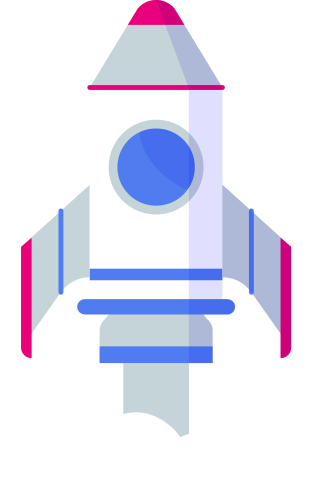
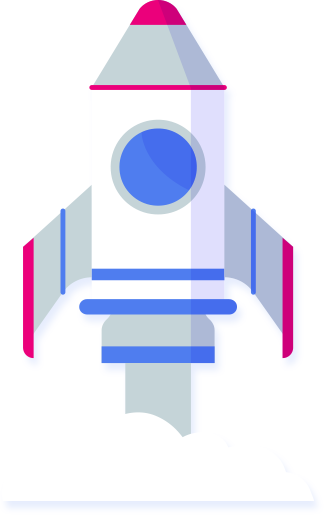
footer positions done

Changed region(s): [[0.0577, 0.0, 0.9519, 0.8683]]

diff --git a/src/html/footer.html b/src/html/footer.html
@@ -6,38 +6,23 @@
 
     <div class="contacts-media__wrapper">
       <div class="contacts">
-        <a
-          href="https://goo.gl/maps/HrK5jJEyG3p3RCrFA"
-          class="contacts__link contacts__link-adress"
-          >01133 Україна, Київ
-          <span class="contacts__link-adress-br"
-            >5 хвилин від м. Печерська </span
-          >бул. Лесі Українки 26
-          <span class="contacts__link-adress-br">4-й поверх</span>
+        <a href="https://goo.gl/maps/HrK5jJEyG3p3RCrFA" class="contacts__link contacts__link_adress">01133 Україна, Київ
+          <span class="contacts__link_adress-br">5 хвилин від м. Печерська </span>бул. Лесі Українки 26
+          <span class="contacts__link_adress-br">4-й поверх</span>
         </a>
 
         <ul class="contacts__list">
           <li class="contacts__item">
-            <a
-              href="mailto:contact@goiteens.ua"
-              class="contacts__link contacts__link-email"
-              >contact@goiteens.ua</a
-            >
+            <a href="mailto:contact@goiteens.ua" class="contacts__link contacts__link_email">contact@goiteens.ua</a>
           </li>
           <li class="contacts__item">
-            <a href="tel:380933432127" class="contacts__link contacts__link-tel"
-              >+38 093 343 21 27</a
-            >
+            <a href="tel:380933432127" class="contacts__link contacts__link_tel">+38 093 343 21 27</a>
           </li>
           <li class="contacts__item">
-            <a href="tel:380673269592" class="contacts__link contacts__link-tel"
-              >+38 067 326 95 92</a
-            >
+            <a href="tel:380673269592" class="contacts__link contacts__link_tel">+38 067 326 95 92</a>
           </li>
           <li class="contacts__item">
-            <a href="tel:380503661777" class="contacts__link contacts__link-tel"
-              >+38 050 366 17 77</a
-            >
+            <a href="tel:380503661777" class="contacts__link contacts__link_tel">+38 050 366 17 77</a>
           </li>
         </ul>
       </div>
@@ -46,25 +31,25 @@
         <button class="btn btn_gradient">Залишити заявку</button>
 
         <ul class="socials">
-          <li class="socials__item socials__link-telegram">
+          <li class="socials__item socials__link_telegram">
             <a href="#" class="socials__link">
-              <svg class="socials__icon socials__icon-telegram">
+              <svg class="socials__icon socials__icon_telegram">
                 <use href="./images/footer/sprite.svg#telegram"></use>
               </svg>
               <span class="visually-hidden">telegram</span>
             </a>
           </li>
           <li class="socials__item">
-            <a href="#" class="socials__link socials__link-facebook">
-              <svg class="socials__icon socials__icon-facebook">
+            <a href="#" class="socials__link socials__link_facebook">
+              <svg class="socials__icon socials__icon_facebook">
                 <use href="./images/footer/sprite.svg#facebook"></use>
               </svg>
               <span class="visually-hidden">facebook</span>
             </a>
           </li>
           <li class="socials__item">
-            <a href="#" class="socials__link socials__link-youtube">
-              <svg class="socials__icon socials__icon-youtube">
+            <a href="#" class="socials__link socials__link_youtube">
+              <svg class="socials__icon socials__icon_youtube">
                 <use href="./images/footer/sprite.svg#youtube"></use>
               </svg>
               <span class="visually-hidden">youtube</span>
@@ -73,12 +58,6 @@
         </ul>
       </div>
     </div>
-
-    <!-- <img class="footer__pic_md" src="./images/footer/rocket-md.png" alt="rocket pic"> -->
-    <!-- <picture class="footer__pic">
-      <source srcset="./images/footer/rocket-lg.png" media="min-width: 1420px">
-      <img src="./images/footer/rocket-md.png" alt="rocket pic">
-    </picture> -->
 
     <div class="terms-socials">
       <ul class="terms">
@@ -94,25 +73,25 @@
       </ul>
 
       <ul class="socials_desktop">
-        <li class="socials__item socials__link-telegram">
+        <li class="socials__item socials__link_telegram">
           <a href="#" class="socials__link">
-            <svg class="socials__icon socials__icon-telegram">
+            <svg class="socials__icon socials__icon_telegram">
               <use href="./images/footer/sprite.svg#telegram"></use>
             </svg>
             <span class="visually-hidden">telegram</span>
           </a>
         </li>
         <li class="socials__item">
-          <a href="#" class="socials__link socials__link-facebook">
-            <svg class="socials__icon socials__icon-facebook">
+          <a href="#" class="socials__link socials__link_facebook">
+            <svg class="socials__icon socials__icon_facebook">
               <use href="./images/footer/sprite.svg#facebook"></use>
             </svg>
             <span class="visually-hidden">facebook</span>
           </a>
         </li>
         <li class="socials__item">
-          <a href="#" class="socials__link socials__link-youtube">
-            <svg class="socials__icon socials__icon-youtube">
+          <a href="#" class="socials__link socials__link_youtube">
+            <svg class="socials__icon socials__icon_youtube">
               <use href="./images/footer/sprite.svg#youtube"></use>
             </svg>
             <span class="visually-hidden">youtube</span>

diff --git a/src/sass/sections/footer.scss b/src/sass/sections/footer.scss
@@ -1,22 +1,49 @@
 .footer {
   background-image: url(../images/footer/footer-bg.jpg);
-  background-size: 100% 675px;
+  background-size: 100% 686px;
   background-repeat: no-repeat;
   background-position: bottom;
+  position: relative;
+  padding-top: 70px;
+  padding-bottom: 40px;
 
-  @media (min-width: 768px) {
+  @media (min-width: 768px) and (max-width: 1439px) {
     background-image: url(../images/footer/footer-bg-md.jpg);
-    background-size: 100% 420px;
+    background-size: 100% 434px;
+    padding-top: 78px;
+    padding-bottom: 30px;
+
+    &::before {
+      content: '';
+      background-image: url(../images/footer/rocket-md.png);
+      width: 129px;
+      height: 202px;
+      position: absolute;
+      bottom: 90px;
+      right: 38px;
+    }
   }
 
   @media (min-width: 1440px) {
     background-image: url(../images/footer/footer-bg-lg.jpg);
-    background-size: 100% 494px;
+    background-size: 100% 504px;
+    padding-top: 166px;
+    padding-bottom: 68px;
+
+    &::before {
+      content: '';
+      background-image: url(../images/footer/rocket-lg.png);
+      width: 324px;
+      height: 515px;
+      position: absolute;
+      bottom: 15px;
+      right: 98px;
+    }
   }
 
   &__pic {
     &_md {
-      @include size(118px, 188px);
+      @include size(129px, 202px);
 
       @media (max-width: 767px) {
         display: none;
@@ -26,6 +53,14 @@
         position: absolute;
         bottom: 97px;
         right: 55px;
+      }
+    }
+
+    &_lg {
+      @media (min-width: 1440px) {
+        // position: absolute;
+        // bottom: 97px;
+        // right: 55px;
       }
     }
   }
@@ -51,7 +86,11 @@
 }
 
 .contacts-media__wrapper {
-  // display: flex;
+  @media (min-width: 1440px) {
+    display: flex;
+    justify-content: flex-start;
+    margin-bottom: 76px;
+  }
 }
 
 .contacts {
@@ -71,6 +110,7 @@
   }
 
   @media (min-width: 1440px) {
+    margin-bottom: 0;
     margin-right: 122px;
   }
 
@@ -81,14 +121,22 @@
 
     @media (min-width: 768px) {
       text-align: left;
-      margin-right: 70px;
     }
 
-    &-adress {
+    @media (min-width: 1440px) {
+      margin: 0;
+    }
+
+    &_adress {
       margin-bottom: 30px;
 
       @media (min-width: 768px) {
         margin-bottom: 0;
+        margin-right: 68px;
+      }
+
+      @media (min-width: 1440px) {
+        margin-right: 118px;
       }
 
       &-br {
@@ -109,6 +157,10 @@
   @media (min-width: 768px) {
     margin-bottom: 48px;
     margin-left: 52px;
+  }
+
+  @media (min-width: 1440px) {
+    margin-left: 0;
   }
 }
 
@@ -138,11 +190,16 @@
       letter-spacing: 0.48px;
       margin-right: 40px;
     }
+
+    @media (min-width: 1440px) {
+      margin: 0;
+    }
   }
 }
 
 .socials {
   display: flex;
+  align-items: center;
   margin: 0 auto;
   margin-bottom: 40px;
 
@@ -164,9 +221,9 @@
     display: block;
   }
 
-  &__icon-telegram,
-  &__icon-facebook,
-  &__icon-youtube {
+  &__icon_telegram,
+  &__icon_facebook,
+  &__icon_youtube {
     @include size(42px, 42px);
   }
 
@@ -180,8 +237,11 @@
 }
 
 .terms-socials {
-  display: flex;
   align-items: center;
+
+  @media (min-width: 1440px) {
+    display: flex;
+  }
 }
 
 .terms {
